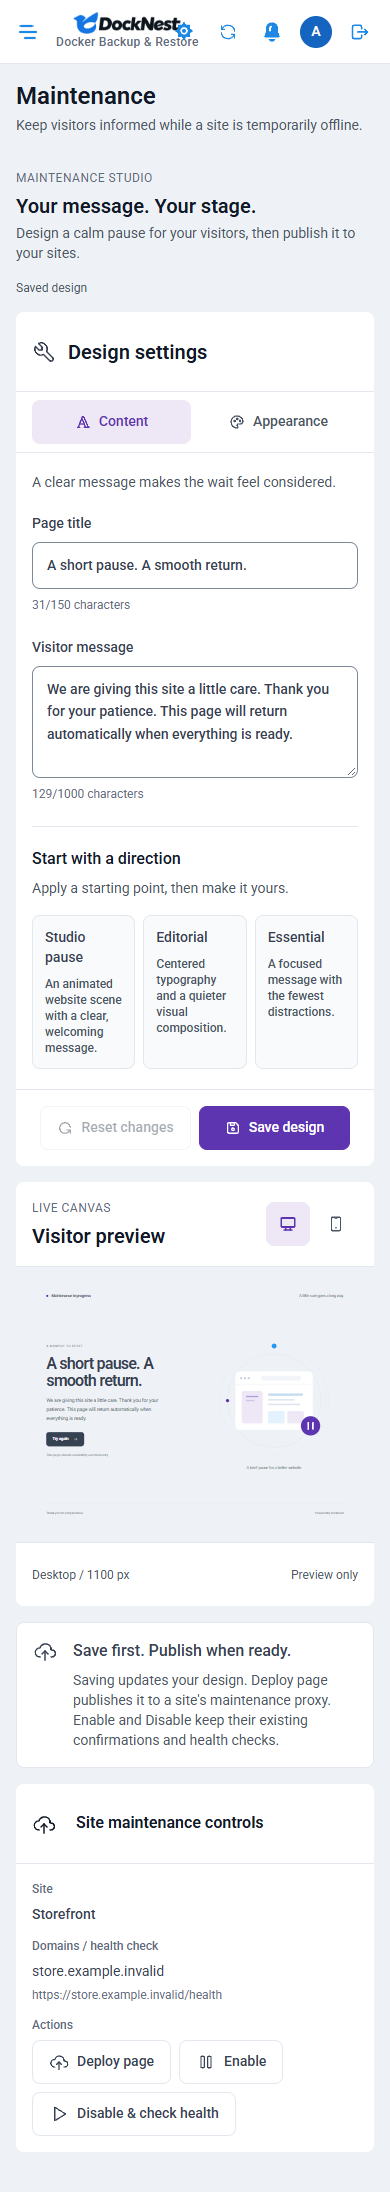
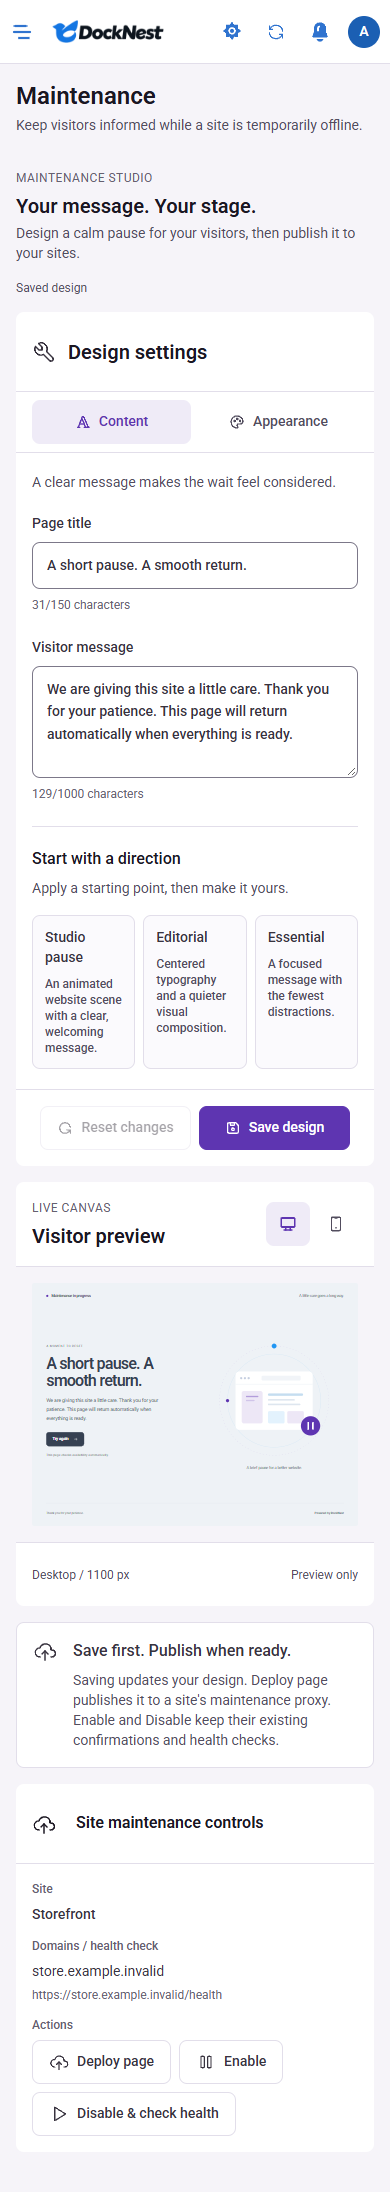
docs: restore tests guide and 2.9.0 notes use the exact UI labels

diff --git a/docs/restore-tests-guide.md b/docs/restore-tests-guide.md
@@ -20,14 +20,17 @@ ports.
 
 ## Turn it on
 
-Open **Sites & schedules**, pick a site and open its restore test settings. Only administrators can change them.
+Open **Sites & schedules**, find the site and select **Restore tests** on its row. Only administrators can change
+the settings.
 
-- **Test server.** Choose where the copy runs.
+- **Auto tests.** The switch that turns scheduled tests on. It is off by default.
 - **How often.** Daily, weekly (suggested) or monthly. A test starts about 30 minutes after the site's next backup.
-- **Limits.** Time, memory and CPU for each container. Defaults: 30 minutes, 1 GB, 1 CPU.
-- **Web check (optional).** A service, port and path to open inside the copy.
+- **Test server.** Choose where the copy runs.
+- **Time limit, Memory and CPU.** Limits for each container, with presets or a custom value. Defaults: 30 minutes,
+  1 GB, 1 CPU.
+- **Health check path (optional).** A page to open inside the copy, under **Advanced settings**.
 
-Tests are off by default. **Run test now** works for administrators and operators. You can start up to 6 manual tests
+Select **Save** to keep the settings. **Run test** works for administrators and operators. You can start up to 6 manual tests
 per site every 24 hours.
 
 ## Choose a test server
@@ -40,7 +43,7 @@ it.
 
 ### Use the live server (optional)
 
-You can choose the site's own server. DockNest asks you to confirm, and it asks for your password and code again.
+You can choose the site's own server. Tick **Allow live server**. DockNest asks for your password and code again.
 
 The risks:
 
@@ -55,7 +58,7 @@ The test still uses its own container names and never changes live containers.
 By default a copy has no internet. It cannot send mail, charge cards or call webhooks. Some apps need an outside
 service to start. Those tests fail with a message that says so.
 
-You can turn on **Allow internet** under Advanced. Administrators only, with a fresh password and code.
+You can turn on **Allow internet** under **Advanced settings**. Administrators only, with a fresh password and code.
 
 The risks:
 
@@ -86,6 +89,7 @@ internet)".
 | Failed | The backup did not come back. Look at this one first. |
 | Couldn't run | The test server or a test limit stopped it. The backup may be fine. |
 | Cancelled | You stopped it. |
+| Not tested | No test has run for this backup yet. |
 
 A pass means:
 
@@ -100,32 +104,33 @@ checks to cover more.
 Each test lists its steps with times: Check space, Copy backup, Restore copy, Start containers, Check health and
 Clean up. A failed step shows one plain sentence about why.
 
-Each backup shows its newest test result in the library.
+Each backup shows its newest test result in the library, and each site shows its **Last test** result. A failed
+test also appears as a red alert on the Overview, and every test appears in **Jobs** with its steps.
 
 ## Alerts
 
-Turn these on under alerts (Telegram or email):
+Administrators turn these on under **Alerts** on the Map page (Telegram or email):
 
 - **Restore test failed.**
-- **Restore test couldn't run.**
+- **Restore test couldn’t run.**
 - **Restore test passed again,** after an earlier failure.
-- **Restore test needs you,** when clean-up did not finish.
+- **Restore test needs clean-up,** when clean-up did not finish.
 
 Messages contain names and times only.
 
 ## Troubleshooting
 
-### "Couldn't run"
+### "Couldn’t run"
 
 Read the reason on the test. Common ones:
 
-- **Memory limit.** Raise the memory limit in Advanced.
-- **Time limit.** Raise the time limit or use a faster test server.
+- **Memory limit.** Raise the **Memory** limit.
+- **Time limit.** Raise the **Time limit** or use a faster test server.
 - **Low disk.** Free space on the test server.
 - **Test server unreachable.** Check the server's connection.
 - **Needs an outside service.** The app cannot start without internet. Consider **Allow internet** and read the risks
   above.
-- **CPU above the server.** Lower the CPU limit to what the test server has.
+- **CPU above the server.** Lower the **CPU** limit to what the test server has.
 
 ### "Failed"
 
@@ -133,19 +138,20 @@ Restore the backup by hand from the Backups page to see the same problem. The ba
 
 ### Clean-up did not finish
 
-DockNest retries clean-up after 5, 15 and 60 minutes. If it still fails, the test shows **Needs you** and the test
+DockNest retries clean-up after 5, 15 and 60 minutes. If it still fails, the test shows **Needs clean-up** and the test
 server stays blocked for new tests. Your sites keep working.
 
-1. Open the test and select **Retry clean-up**.
+1. Open the test in **Jobs** and select **Retry clean-up**.
 2. If that fails, check the test server for containers and networks labelled `docknest.restore-test`.
-3. When nothing is left, acknowledge the test. DockNest only accepts this when the server reports nothing left.
+3. When nothing is left, use **Acknowledge remote recovery** on the job. DockNest only accepts this when the server
+   reports nothing left.
 
 A safety timer on the test server removes leftovers if DockNest itself is down. It does not survive a reboot of the
 test server. Test containers do not restart on their own, and the next DockNest check cleans up.
 
 ## Storage report
 
-The Storage page shows space used per site and per storage, and growth over the last 30 days. Under it, a line like
+The Storage page shows **By site**, **By storage** and **Last 30 days** (growth). A line like
 "Incremental backups could save about 60% (estimate)" shows what incremental backups might save.
 
 This is a rough best case. DockNest reads package sizes only and cannot see inside encrypted backups. It treats only

diff --git a/docs/releases/2026-10-27-v2.9.0.md b/docs/releases/2026-10-27-v2.9.0.md
@@ -1,8 +1,8 @@
 ---
 security: false
-features: 2
-improvements: 0
-fixes: 0
+features: 3
+improvements: 2
+fixes: 1
 ---
 # DockNest 2.9.0
 
@@ -10,11 +10,21 @@ DockNest can now check, on a schedule, that your backups really come back.
 
 ## New
 
-- **Automatic restore tests (beta).** Pick a test server for a site. DockNest restores its latest verified backup there, starts it, checks it, shows the result and removes the copy. Daily, weekly or monthly. Off until you turn it on.
+- **Automatic restore tests (beta).** Select **Restore tests** on a site and choose a test server. DockNest restores the latest verified backup there, starts it, checks it, shows the result and removes the copy. Daily, weekly or monthly. Off until you turn on **Auto tests**.
 - **Storage report.** The Storage page shows space per site and per storage, growth over 30 days, and a rough estimate of what incremental backups could save.
+- **New sign-in and setup pages.** A calm split screen with a show/hide password button and one short error message.
+
+## Better
+
+- **Mauve ink colours.** Softer neutrals with a hint of the DockNest purple, in light and dark, with better contrast in charts.
+- **Maintenance pages** now end with a "Powered by DockNest" credit that links to the project.
+
+## Fixed
+
+- The Map details panel: copy buttons sit beside each value, long values are no longer cut off, and Alerts matches the rest of the panel.
 
 ## Before you update
 
-- Nothing to do. Restore tests stay off until you choose a test server for a site.
+- Restore tests stay off until you choose a test server for a site.
 - The test server receives a full copy of the site, including its passwords. Pick a server you trust as much as the live one.
-- Before going back to 2.8.x, finish or cancel running tests.
+- Before going back to 2.8.x, finish or cancel running restore tests.
